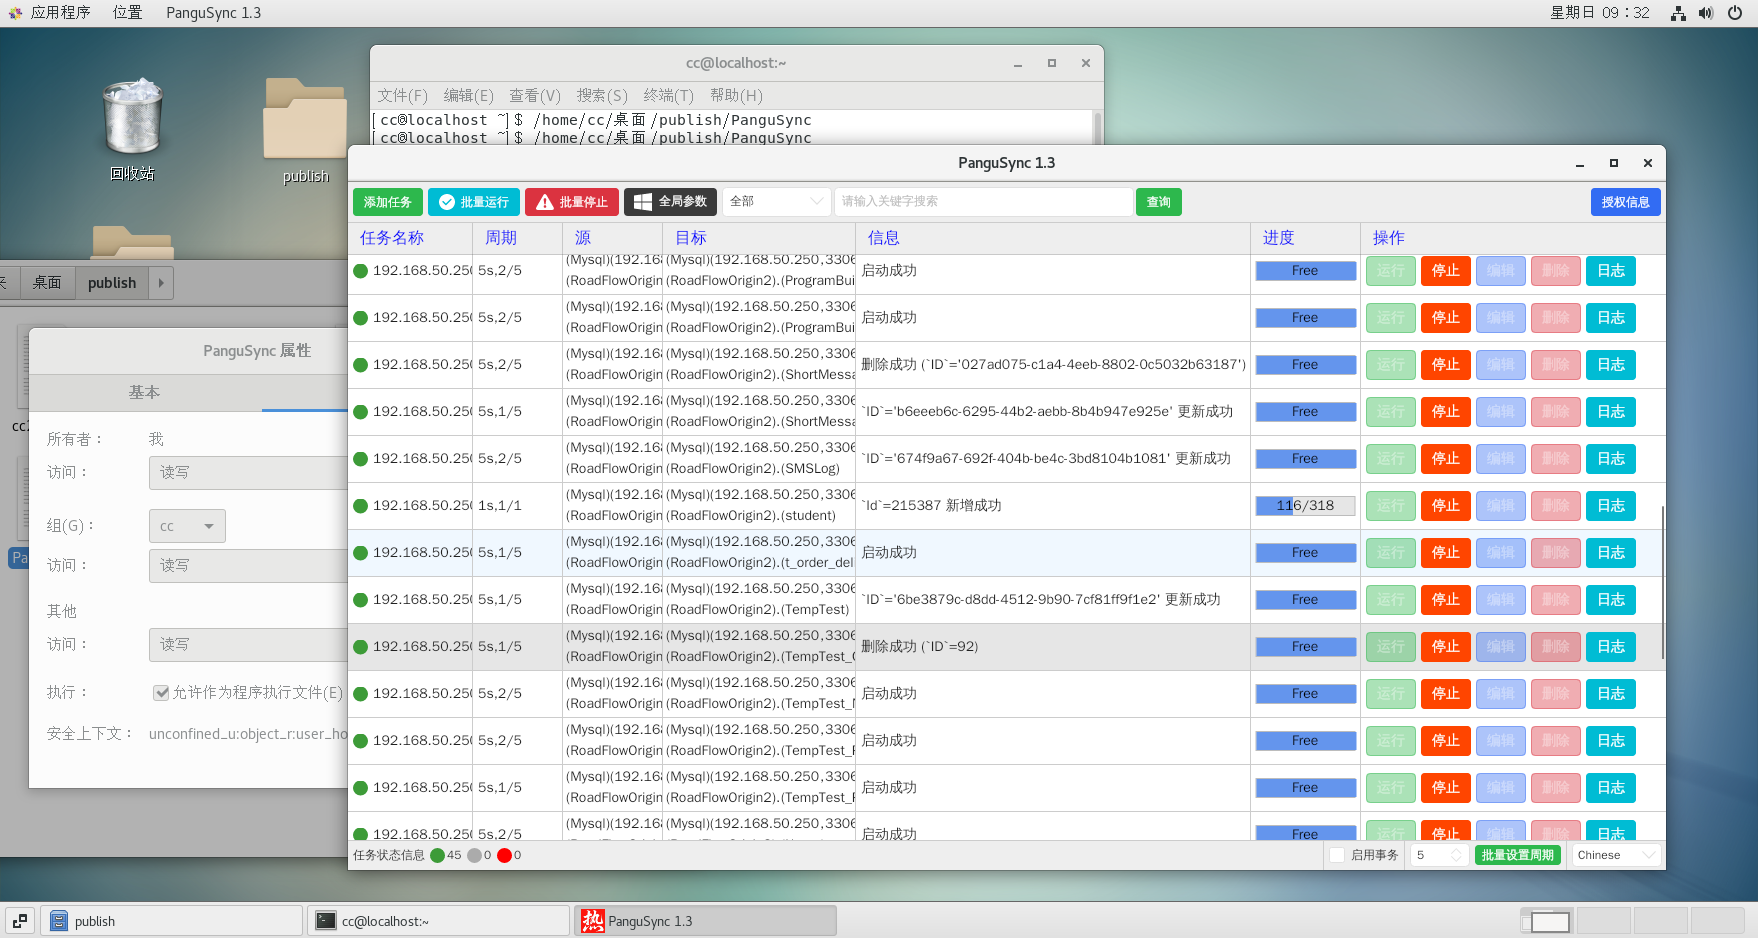
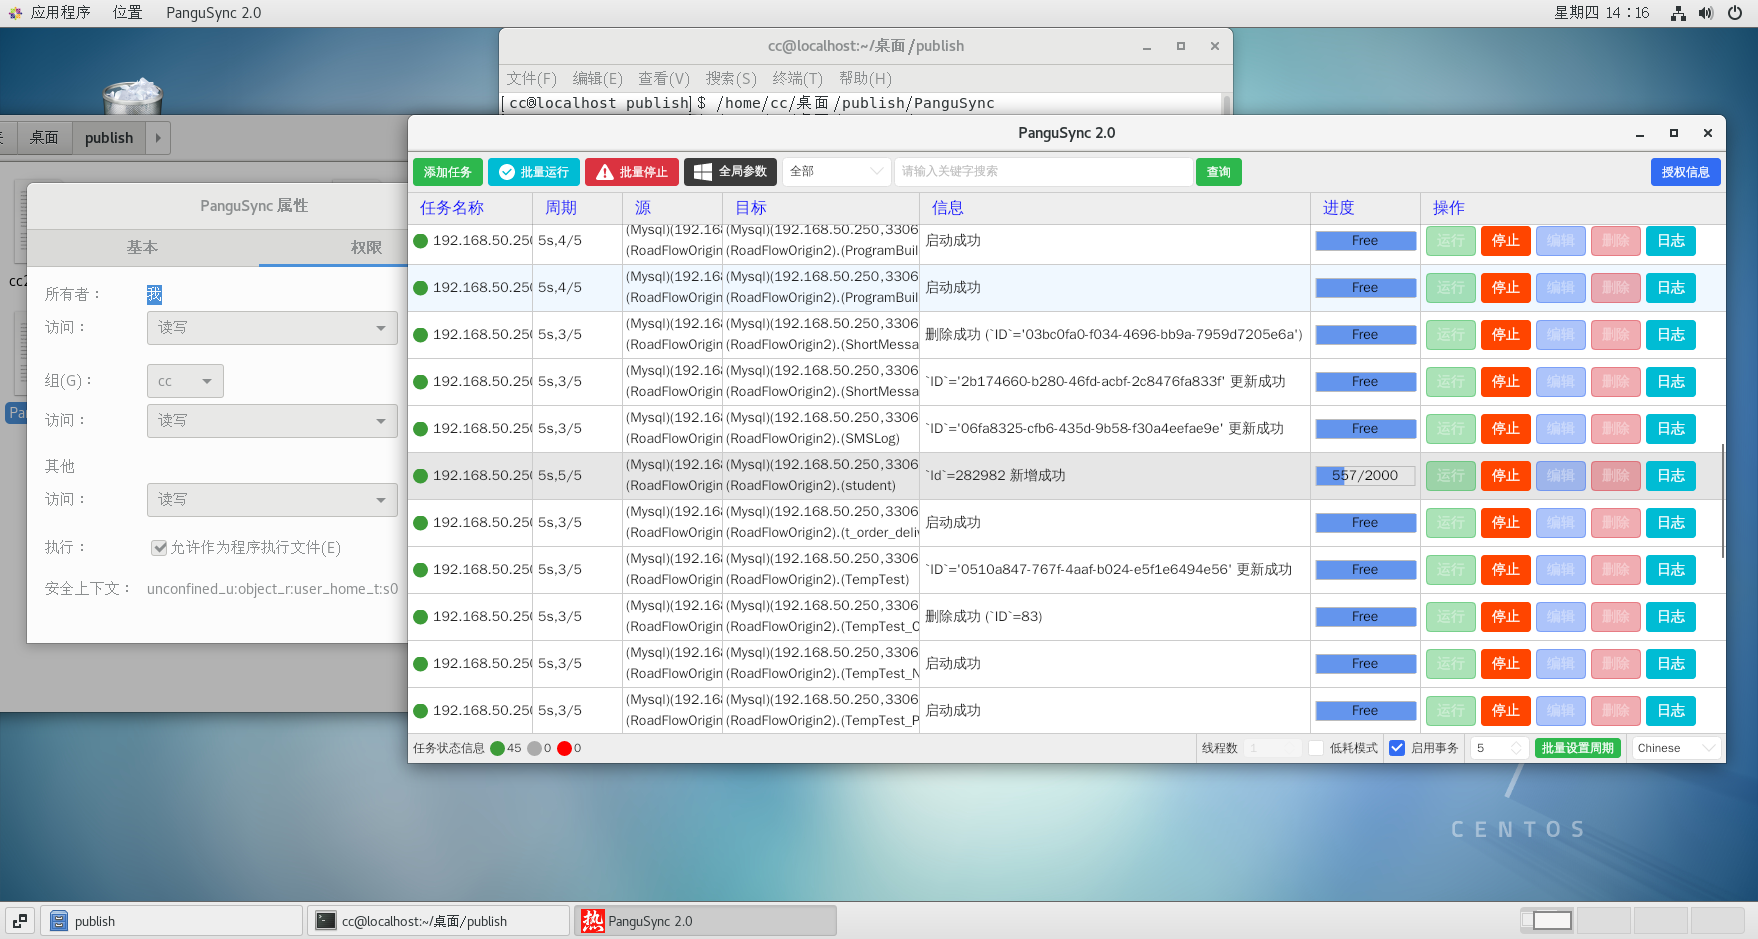
图片信息修改

diff --git a/README.md b/README.md
@@ -18,10 +18,10 @@ https://www.bilibili.com/video/BV1TmvPz8EhF/?vd_source=8db0f4c511ee648e595718cb6
 #### PanguSync 10.1 for Windows
 <img src="主界面.png">
 
-#### PanguSync 1.3 for Linux(Ubuntu)
+#### PanguSync 2.0 for Linux(Ubuntu)
 <img src="Ubuntu运行效果.png">
 
-#### PanguSync 1.3 for Linux(CentOS)
+#### PanguSync 2.0 for Linux(CentOS)
 <img src="CentOS运行效果.png">
 
 ### 🔯Synchronous mode
